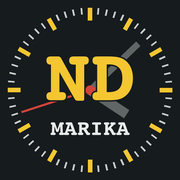
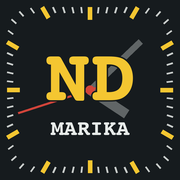
Ikona: ciferník podél zaobleného čtverce; nové názvy souborů kvůli mezipaměti
Claude-Session: https://claude.ai/code/session_01NWnZC4F3CfBGFe5paz6B6C

diff --git a/sw.js b/sw.js
@@ -1,6 +1,6 @@
 /* Natáčecí den – offline cache. App files: network first (updates arrive at once), libraries: cache first. Supabase data is never cached here. */
-const CACHE = "nd-v7";
-const SHELL = ["./", "index.html", "config.js", "manifest.webmanifest", "icon-192.png", "icon-512.png", "apple-touch-icon.png"];
+const CACHE = "nd-v8";
+const SHELL = ["./", "index.html", "config.js", "manifest.webmanifest", "nd-icon-192.png", "nd-icon-512.png", "nd-icon-180.png"];
 self.addEventListener("install", e => { e.waitUntil(caches.open(CACHE).then(c => c.addAll(SHELL)).then(() => self.skipWaiting())); });
 self.addEventListener("activate", e => { e.waitUntil(caches.keys().then(ks => Promise.all(ks.filter(k => k !== CACHE).map(k => caches.delete(k)))).then(() => self.clients.claim())); });
 self.addEventListener("fetch", e => {

diff --git a/index.html b/index.html
@@ -6,8 +6,9 @@
 <meta name="apple-mobile-web-app-status-bar-style" content="black-translucent">
 <meta name="apple-mobile-web-app-title" content="Natáčecí den">
 <link rel="manifest" href="manifest.webmanifest">
-<link rel="icon" href="icon-192.png?v=2">
-<link rel="apple-touch-icon" href="apple-touch-icon.png?v=2">
+<link rel="icon" href="nd-icon-192.png">
+<link rel="apple-touch-icon" href="nd-icon-180.png">
+<link rel="apple-touch-icon" sizes="180x180" href="nd-icon-180.png">
 <script src="config.js"></script>
 <script src="https://cdn.jsdelivr.net/npm/@supabase/supabase-js@2.49.4/dist/umd/supabase.min.js"></script>
 <link rel="stylesheet" href="https://fonts.googleapis.com/css2?family=Barlow+Condensed:wght@500;600;700&family=Source+Sans+3:wght@400;600;700&display=swap">
